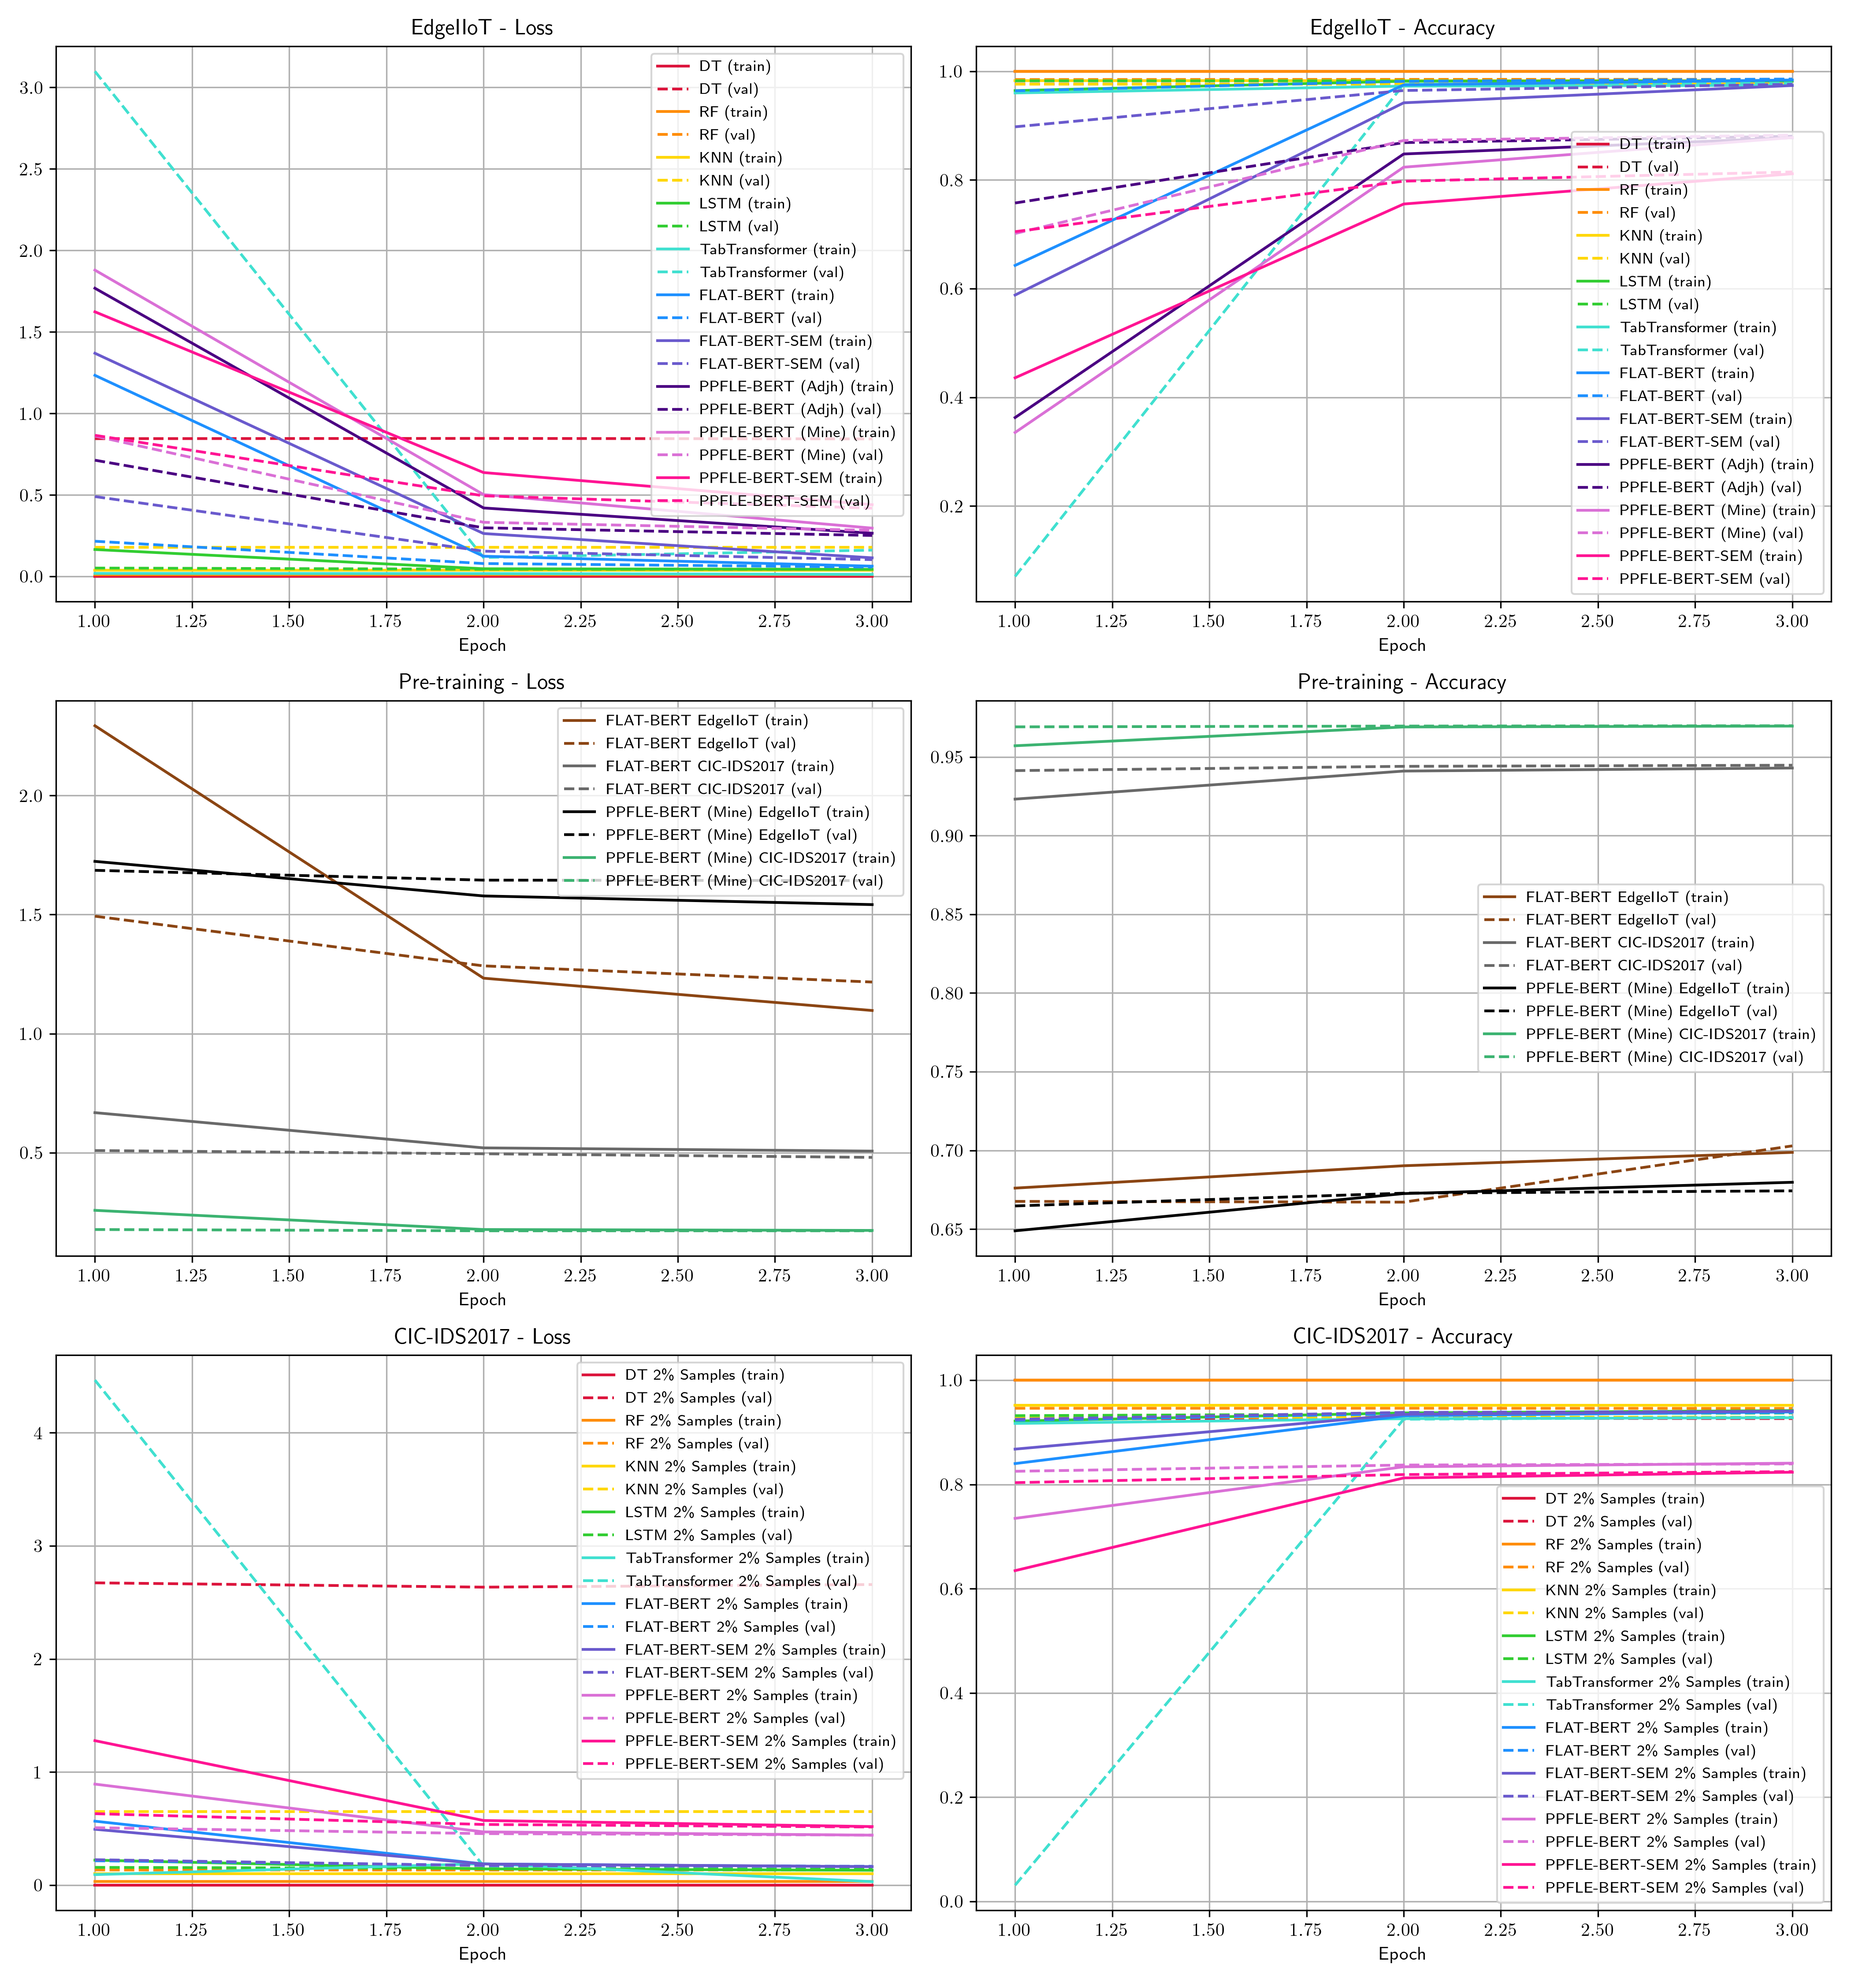
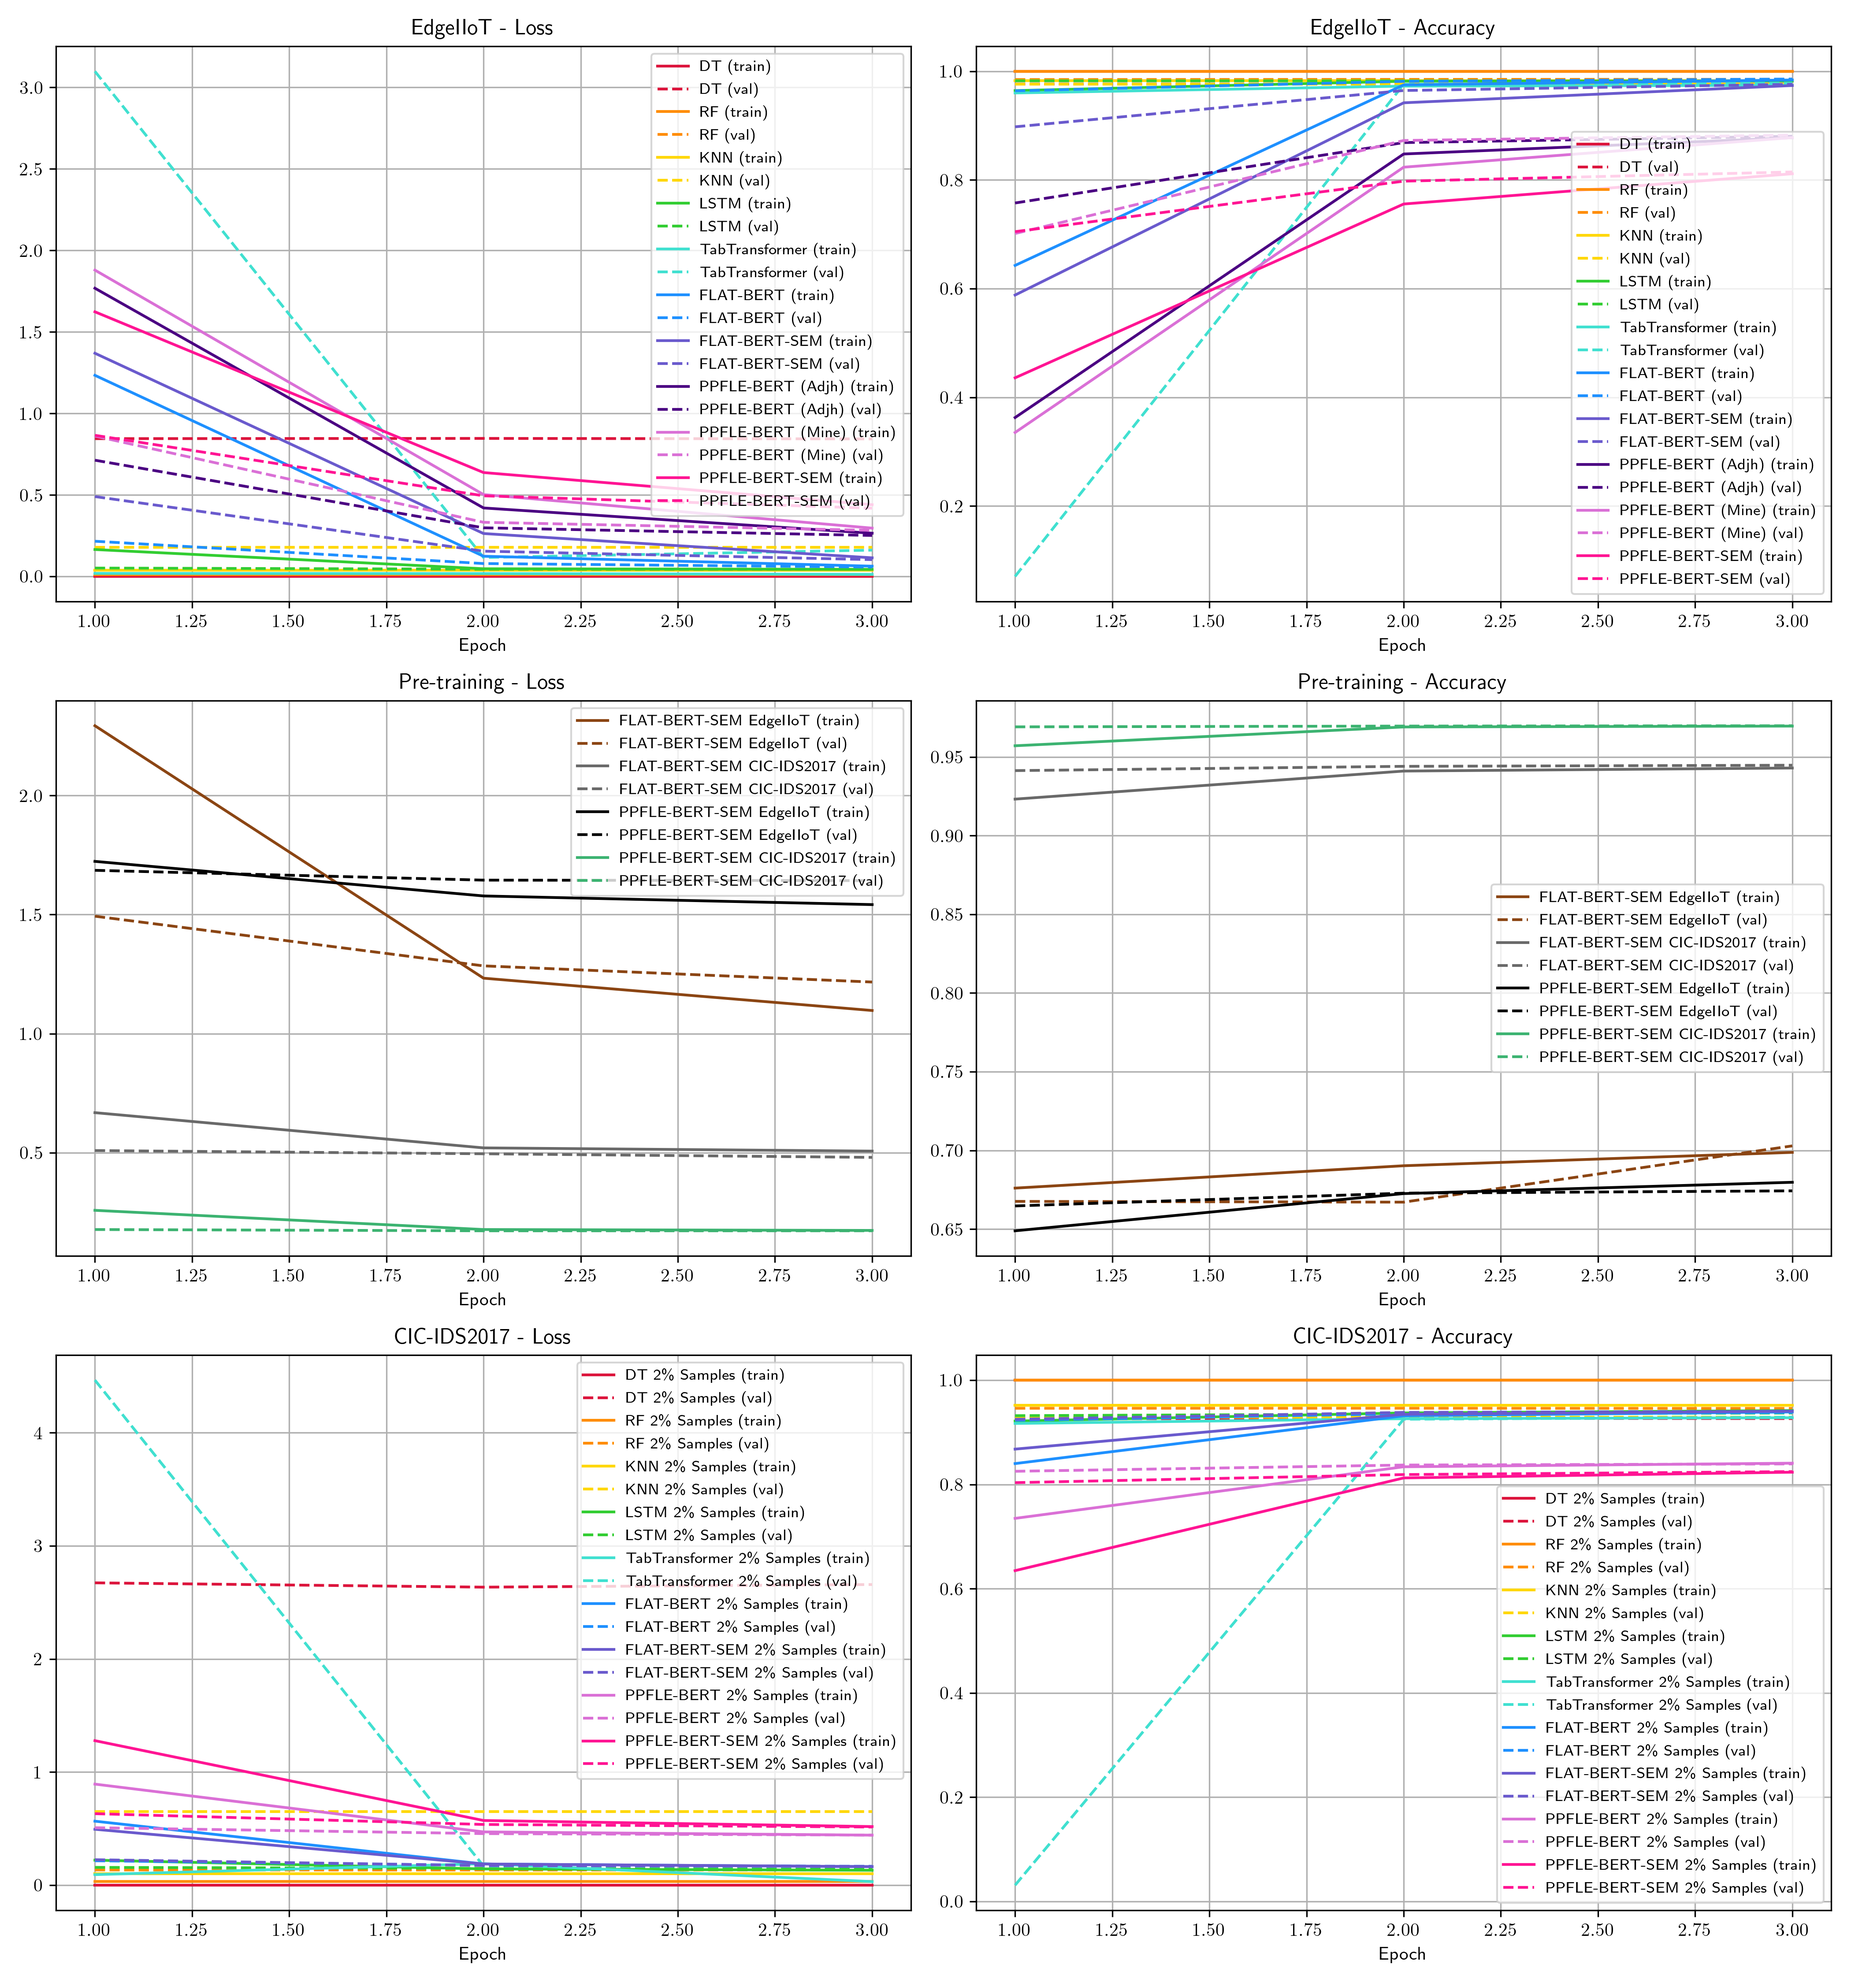
corrected pre-training legend

Changed region(s): [[0.811, 0.4356, 0.9669, 0.5289], [0.3119, 0.3422, 0.4679, 0.4356]]

diff --git a/generate_test_scores.py b/generate_test_scores.py
@@ -508,14 +508,14 @@ class GenerateTestScores():
                 # Use dataset name for hist7/hist8
                 if j == 19 or j == 21:
                     if j == 19:
-                        base_label = GenerateTestScores.latex_escape(model_names[5]) + " EdgeIIoT"
+                        base_label = GenerateTestScores.latex_escape(model_names[6]) + " EdgeIIoT"
                     else:
-                        base_label = GenerateTestScores.latex_escape(model_names[8]) + " EdgeIIoT"
+                        base_label = GenerateTestScores.latex_escape(model_names[9]) + " EdgeIIoT"
                 elif j == 20 or j == 22:
                     if j == 20:
-                        base_label = GenerateTestScores.latex_escape(model_names[5]) + " CIC-IDS2017"
+                        base_label = GenerateTestScores.latex_escape(model_names[6]) + " CIC-IDS2017"
                     else:
-                        base_label = GenerateTestScores.latex_escape(model_names[8]) + " CIC-IDS2017"
+                        base_label = GenerateTestScores.latex_escape(model_names[9]) + " CIC-IDS2017"
                 else:
                     base_label = GenerateTestScores.latex_escape(model_names[j])
 
